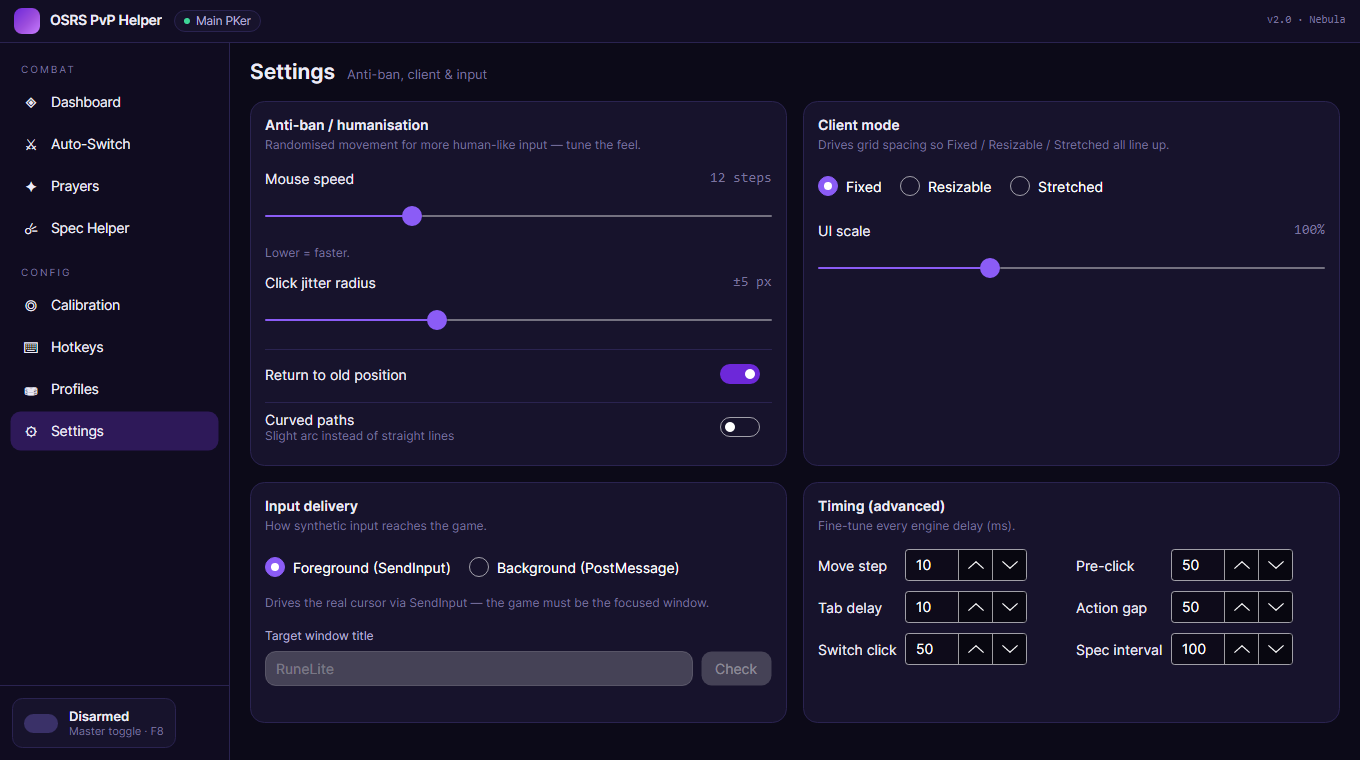
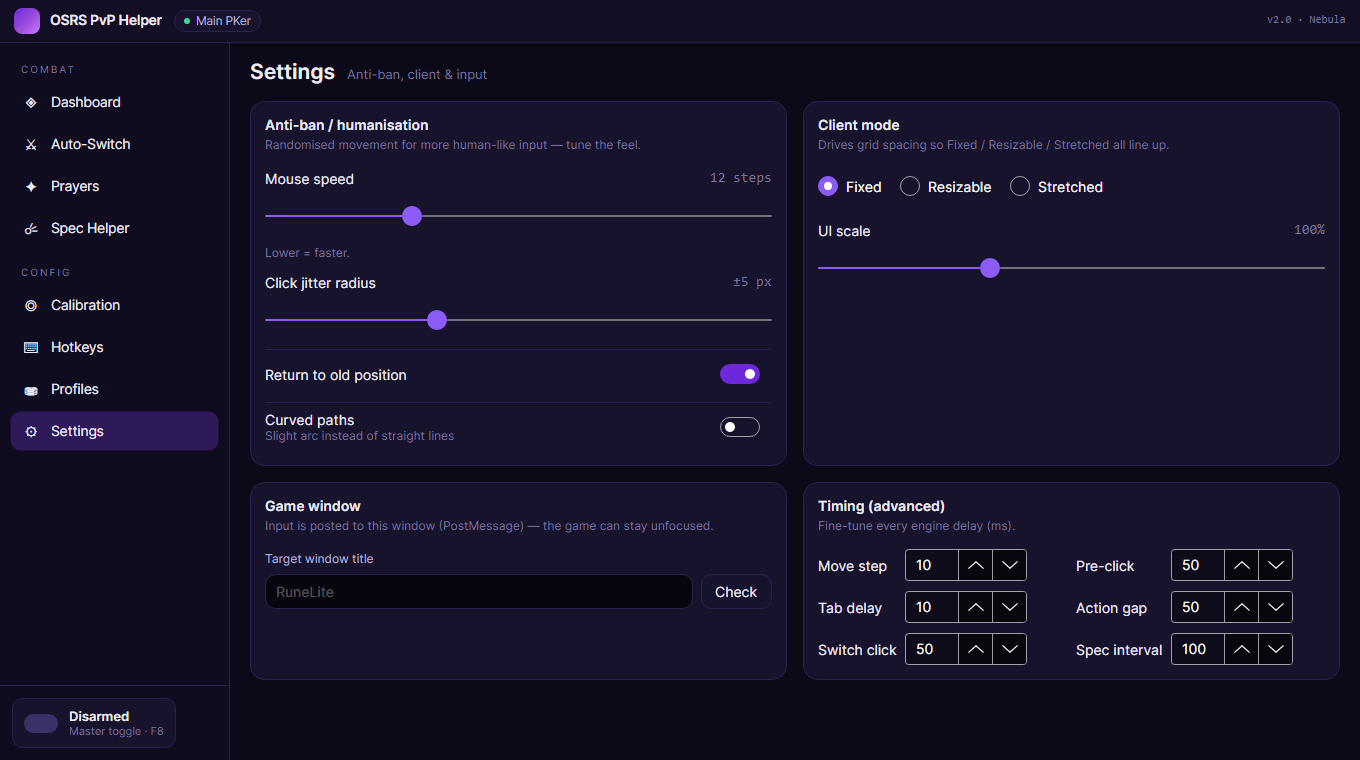
Make PostMessage the sole input path (remove SendInput)
Per request, drop the dual-mode input routing and use PostMessage
(background) exclusively:
- Remove Win32InputSender, InputRouter, IInputModeProvider,
  AppInputModeProvider, and Profile.InputMode.
- Register PostMessageInputSender directly as the IInputSender.
- Add Win32Cursor (GetCursorPos) so calibration still samples the real
  physical cursor; PostMessageInputSender.GetCursor now reports it too.
- Settings: replace the Foreground/Background card with a "Game window"
  card (target window title + Check). Keep TargetWindowTitle.
- Update README + screenshots.

Note: PostMessage is game-dependent (esp. keyboard to an unfocused
window); there's no longer a focused SendInput fallback. Build clean;
11 tests pass.

Changed region(s): [[0.1853, 0.7263, 0.5868, 0.9079], [0.1853, 0.6355, 0.525, 0.6961]]

diff --git a/src/PvPHelper.Core/Input/PostMessageInputSender.cs b/src/PvPHelper.Core/Input/PostMessageInputSender.cs
@@ -4,39 +4,33 @@ using PvPHelper.Core.Models;
 namespace PvPHelper.Core.Input;
 
 /// <summary>
-/// Background input via posted window messages. Screen coordinates (from calibration) are
-/// converted to the target window's client area. There is no real cursor, so a virtual
-/// cursor is tracked for the engine's "return to previous position" moves.
-/// Failures (window gone/invalid) are swallowed so a stray action can't crash the app.
+/// Delivers input to the game via posted window messages (no window focus required).
+/// Calibrated screen coordinates are converted to the target window's client area.
+/// <see cref="GetCursor"/> reports the real cursor (there is no synthetic cursor), so the
+/// engine's "return to previous position" moves post the mouse back to where it actually is.
+/// Failures (window gone/invalid) are traced and swallowed so a stray action can't crash the app.
 /// </summary>
 public sealed class PostMessageInputSender : IInputSender
 {
     private readonly IGameWindowProvider _windows;
-    private ScreenPoint _cursor;
 
     public PostMessageInputSender(IGameWindowProvider windows) => _windows = windows;
 
-    public ScreenPoint GetCursor() => _cursor;
+    public ScreenPoint GetCursor() => Win32Cursor.GetPosition();
 
-    public void SetCursor(ScreenPoint point)
-    {
-        _cursor = point;
+    public void SetCursor(ScreenPoint point) =>
         WithTarget((input, hwnd) =>
         {
             if (Win32Windows.TryScreenToClient(hwnd, point, out var x, out var y))
                 input.MoveMouse(x, y);
         });
-    }
 
-    public void LeftClick(ScreenPoint point)
-    {
-        _cursor = point;
+    public void LeftClick(ScreenPoint point) =>
         WithTarget((input, hwnd) =>
         {
             if (Win32Windows.TryScreenToClient(hwnd, point, out var x, out var y))
                 input.Click(MouseButton.Left, x, y);
         });
-    }
 
     public void PressKey(HotkeyToken key)
     {

diff --git a/src/PvPHelper.App/ViewModels/CalibrationViewModel.cs b/src/PvPHelper.App/ViewModels/CalibrationViewModel.cs
@@ -13,7 +13,6 @@ public sealed partial class CalibrationViewModel : PageViewModelBase
 
     private readonly SessionState _session;
     private readonly IHotkeyHook _hook;
-    private readonly Win32InputSender _cursor;
     private Target? _capturing;
 
     public override string Title => "Calibration";
@@ -23,11 +22,10 @@ public sealed partial class CalibrationViewModel : PageViewModelBase
     [ObservableProperty] private bool _isCapturing;
     [ObservableProperty] private string _status = "Ready. Capture each anchor by hovering the target in-game and pressing any key.";
 
-    public CalibrationViewModel(SessionState session, IHotkeyHook hook, Win32InputSender cursor)
+    public CalibrationViewModel(SessionState session, IHotkeyHook hook)
     {
         _session = session;
         _hook = hook;
-        _cursor = cursor;
     }
 
     private CalibrationData C => _session.Profile.Calibration;
@@ -63,7 +61,7 @@ public sealed partial class CalibrationViewModel : PageViewModelBase
 
     private void OnCaptureKey(HotkeyEvent _)
     {
-        var point = _cursor.GetCursor(); // physical screen pixels, matches SetCursorPos on replay
+        var point = Win32Cursor.GetPosition(); // physical screen pixels, matches playback
         var target = _capturing;
         Dispatcher.UIThread.Post(() => Apply(target, point));
     }

diff --git a/src/PvPHelper.App/App.axaml.cs b/src/PvPHelper.App/App.axaml.cs
@@ -25,17 +25,10 @@ public partial class App : Application
         services.AddSingleton<ProfileStore>();
         services.AddSingleton<SessionState>();
 
-        // Automation engine — foreground (SendInput) and background (PostMessage) senders,
-        // dispatched by the active profile's input mode.
-        services.AddSingleton<Win32InputSender>();
+        // Automation engine — input is delivered to the game via PostMessage (no focus required).
         services.AddSingleton<GameWindowLocator>();
         services.AddSingleton<IGameWindowProvider>(sp => sp.GetRequiredService<GameWindowLocator>());
-        services.AddSingleton<PostMessageInputSender>();
-        services.AddSingleton<IInputModeProvider, AppInputModeProvider>();
-        services.AddSingleton<IInputSender>(sp => new InputRouter(
-            sp.GetRequiredService<IInputModeProvider>(),
-            sp.GetRequiredService<Win32InputSender>(),
-            sp.GetRequiredService<PostMessageInputSender>()));
+        services.AddSingleton<IInputSender, PostMessageInputSender>();
         services.AddSingleton<IHotkeyHook, LowLevelHotkeyHook>();
         services.AddSingleton<ActionEngine>();
         services.AddSingleton<ArmController>();

diff --git a/src/PvPHelper.Core/Models/Profile.cs b/src/PvPHelper.Core/Models/Profile.cs
@@ -8,17 +8,6 @@ public enum ClientMode
     Stretched
 }
 
-/// <summary>
-/// How synthetic input reaches the game. Foreground drives the real cursor via SendInput
-/// (game must be focused). Background posts window messages to the target HWND (no focus
-/// required), at the cost of being game-dependent.
-/// </summary>
-public enum InputMode
-{
-    Foreground,
-    Background
-}
-
 /// <summary>Movement/humanisation knobs. Defaults reproduce the legacy console feel.</summary>
 public sealed class AntiBanSettings
 {
@@ -124,10 +113,7 @@ public sealed class Profile
     public ClientMode ClientMode { get; set; } = ClientMode.Fixed;
     public int UiScalePercent { get; set; } = 100;
 
-    /// <summary>Foreground (SendInput) or Background (PostMessage) input delivery.</summary>
-    public InputMode InputMode { get; set; } = InputMode.Foreground;
-
-    /// <summary>Optional window-title substring used to locate the game window in Background mode.</summary>
+    /// <summary>Optional window-title substring used to locate the game window for input.</summary>
     public string? TargetWindowTitle { get; set; }
 
     public AntiBanSettings AntiBan { get; set; } = new();

diff --git a/src/PvPHelper.App/ViewModels/SettingsViewModel.cs b/src/PvPHelper.App/ViewModels/SettingsViewModel.cs
@@ -84,23 +84,6 @@ public sealed partial class SettingsViewModel : PageViewModelBase
         set { var i = (int)value; if (P.UiScalePercent != i) { P.UiScalePercent = i; OnPropertyChanged(); Save(); } }
     }
 
-    // ---- Input mode ----
-    public bool IsForeground { get => P.InputMode == InputMode.Foreground; set { if (value) SetInputMode(InputMode.Foreground); } }
-    public bool IsBackground { get => P.InputMode == InputMode.Background; set { if (value) SetInputMode(InputMode.Background); } }
-
-    private void SetInputMode(InputMode mode)
-    {
-        P.InputMode = mode;
-        OnPropertyChanged(nameof(IsForeground));
-        OnPropertyChanged(nameof(IsBackground));
-        OnPropertyChanged(nameof(InputModeHint));
-        Save();
-    }
-
-    public string InputModeHint => P.InputMode == InputMode.Background
-        ? "Posts window messages to the game — it can stay unfocused. Game-dependent, especially for keys."
-        : "Drives the real cursor via SendInput — the game must be the focused window.";
-
     public string TargetWindowTitle
     {
         get => P.TargetWindowTitle ?? string.Empty;

diff --git a/tools/ScreenshotTool/Program.cs b/tools/ScreenshotTool/Program.cs
@@ -32,7 +32,6 @@ internal static class Program
         var store = new ProfileStore(tempDir);
         var session = new SessionState(store);
         var hook = new LowLevelHotkeyHook();     // not started
-        var cursor = new Win32InputSender();
         var locator = new GameWindowLocator();
 
         var main = new MainWindowViewModel(
@@ -43,7 +42,7 @@ internal static class Program
             new SpecViewModel(session),
             new HotkeysViewModel(session),
             new ProfilesViewModel(session),
-            new CalibrationViewModel(session, hook, cursor),
+            new CalibrationViewModel(session, hook),
             new SettingsViewModel(session, locator));
 
         var window = new MainWindow { DataContext = main, Width = 1360, Height = 760 };

diff --git a/src/PvPHelper.Core/Input/Win32Cursor.cs b/src/PvPHelper.Core/Input/Win32Cursor.cs
@@ -1,0 +1,24 @@
+using System.Runtime.InteropServices;
+using PvPHelper.Core.Models;
+
+namespace PvPHelper.Core.Input;
+
+/// <summary>Reads the physical mouse cursor position (physical pixels). Used by calibration capture.</summary>
+public static class Win32Cursor
+{
+    public static ScreenPoint GetPosition()
+    {
+        GetCursorPos(out var p);
+        return new ScreenPoint(p.X, p.Y);
+    }
+
+    [StructLayout(LayoutKind.Sequential)]
+    private struct POINT
+    {
+        public int X;
+        public int Y;
+    }
+
+    [DllImport("user32.dll")]
+    private static extern bool GetCursorPos(out POINT lpPoint);
+}

diff --git a/src/PvPHelper.Core/Input/InputAbstractions.cs b/src/PvPHelper.Core/Input/InputAbstractions.cs
@@ -2,7 +2,7 @@ using PvPHelper.Core.Models;
 
 namespace PvPHelper.Core.Input;
 
-/// <summary>Sends synthetic input to the focused game window. Implemented over Win32 SendInput.</summary>
+/// <summary>Sends synthetic input to the game window. Implemented over PostMessage.</summary>
 public interface IInputSender
 {
     ScreenPoint GetCursor();

diff --git a/README.md b/README.md
@@ -22,8 +22,8 @@ with a deep-space **"Nebula"** theme.
 - **Profiles** — save, load (hot-swap), duplicate, and delete presets.
 - **Settings** — anti-ban/humanisation, Fixed/Resizable/Stretched client mode, and **fully
   configurable engine timings** (move step, pre-click, tab, action gap, switch-click, spec interval).
-- **Input delivery** — choose **Foreground** (SendInput, game must be focused) or **Background**
-  (PostMessage to the game window, no focus required — game-dependent).
+- **Background input** — drives the game via **PostMessage** to its window, so the game doesn't
+  need to be focused (game-dependent; set the target window title in Settings).
 - **Runtime** — minimises to the system tray with a global arm/disarm hotkey and an always-on-top
   status HUD while armed.
 
